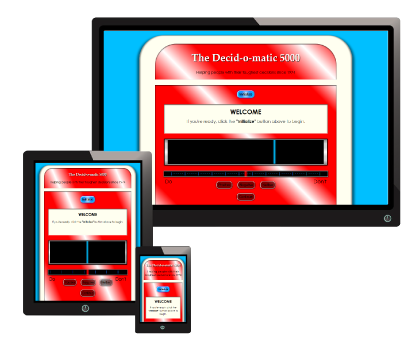
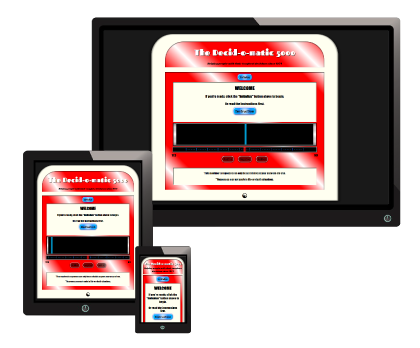
update

diff --git a/js/index.js b/js/index.js
@@ -218,19 +218,19 @@ document.getElementById("detailsButton").onclick = function() {
 };
 
 // DETAILS READ MORE BUTTON
-document.getElementById("detailsButton2").onclick = function() {
-	document.getElementById("meWrap2").setAttribute("style", "width: 100%; height: 100%; background: rgba(255,255,240,0.9)");
-	document.getElementById("detailsClose").style.display = "block";
-	document.getElementById("detailsButton2").style.display = "none";
-	document.getElementById("meWrap1").style.display = "none";
+// document.getElementById("detailsButton2").onclick = function() {
+	// document.getElementById("meWrap2").setAttribute("style", "width: 100%; height: 100%; background: rgba(255,255,240,0.9)");
+	// document.getElementById("detailsClose").style.display = "block";
+	// document.getElementById("detailsButton2").style.display = "none";
+	// document.getElementById("meWrap1").style.display = "none";
 	
-	if (width > 499 && width < 1000) {
-		document.getElementById("meWrap2"). style.top = "300px";
-	} else if (width > 999) {
-		document.getElementById("meSection").style.height = "850px";
-		document.getElementById("meWrap2"). style.top = "325px";
-	}
-};
+	// if (width > 499 && width < 1000) {
+		// document.getElementById("meWrap2"). style.top = "300px";
+	// } else if (width > 999) {
+		// document.getElementById("meSection").style.height = "850px";
+		// document.getElementById("meWrap2"). style.top = "325px";
+	// }
+// };
 
 // DETAILS CLOSE BUTTON
 document.getElementById("detailsClose").onclick = function() {

diff --git a/css/index.css b/css/index.css
@@ -411,7 +411,7 @@ section p {
 }
 
 #bioButton,
-#detailsButton2,
+#detailsResume,
 #bioButtonClose,
 #detailsClose,
 #trajectoryClose,
@@ -423,8 +423,8 @@ section p {
 	cursor: pointer;
 }
 
-#detailsButton2 {
-	margin-top: 40px;
+#referencesButton {
+	margin-bottom: 47.5px;
 }
 
 #bioButton:active, #bioButton:focus, #bioButton:hover, #bioButtonClose:active, #bioButtonClose:focus, #bioButtonClose:hover, #detailsButton2:active, #detailsButton2:focus, #detailsButton2:hover {

diff --git a/index.html b/index.html
@@ -102,7 +102,8 @@
 								<hr class="refHr">
 								<p id="referencesClose" class="hiddenText5">close</p>
 							</div>
-							<p id="detailsButton2">Read More</p>
+							<!-- <p id="detailsButton2">Read More</p> -->
+							<a href="resume.pdf" target="_blank" id="detailsResume">Resume</a>
 							<p id="detailsClose" class="hiddenText2">close</p>
 						</div>
 					</div>
